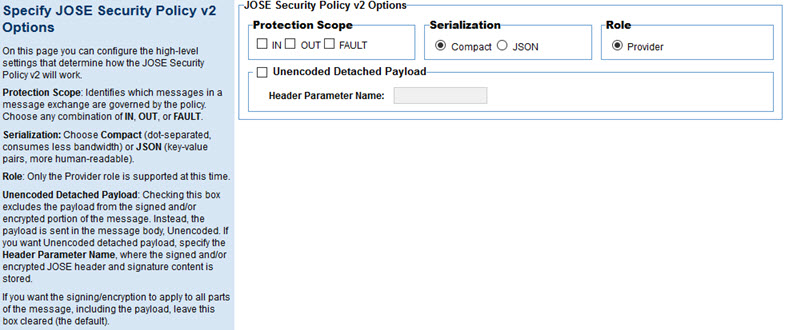
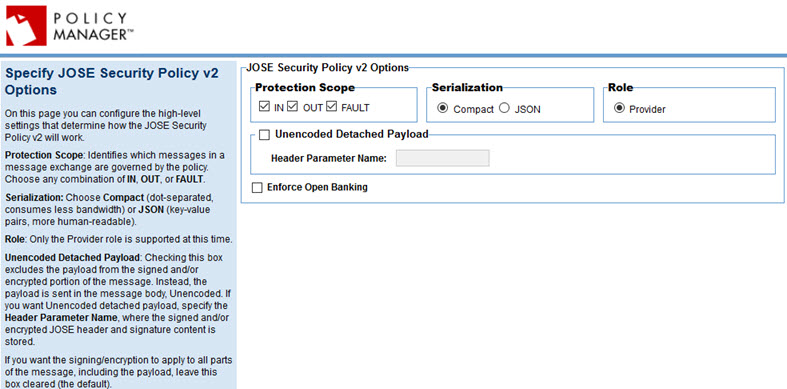
ATMO-24135 JOSE Policy v2 changes for 8.4.18

Changed region(s): [[0.0, 0.0, 1.0, 1.0]]

diff --git a/ag/policies/policy_op_jose_security_v2.htm b/ag/policies/policy_op_jose_security_v2.htm
@@ -132,6 +132,10 @@ nav-title: JOSE Security Policy v2
 <dt>Unencoded Detached Payload</dt>
 <dd>Check this box if you want to exclude the payload from the signed and/or encrypted portion of the message. Instead, the payload is sent in the message body, unencoded. You'll also need to specify the <strong>Header Parameter Name</strong>&#8212;the name of the header where the signed and/or encrypted JOSE header and signature content is stored.</dd>
 <dd> If you want the signing/encryption to apply to all parts of the message, including the payload, leave this box cleared (the default).</dd>
+
+
+<dt>Enforce Open Banking (8.4.18 and later)</dt>
+<dd>Check this box if you want this policy to enforce the additional requirements of the Open Banking specification (<a href="https://openbanking.atlassian.net/wiki/spaces/DZ/pages/16320694/Open+Data+API+Specifications" title="Link to Open Banking specification" target="_blank">https://openbanking.atlassian.net/wiki/spaces/DZ/pages/16320694/Open+Data+API+Specifications</a>). If you choose this option, the policy enforces that the message content type must be <strong>application/json</strong>, as per the Open Banking specification..</dd>
 </dl>
 <p>Click <strong>Next</strong> to go to the next page, which is determined by your choice in the <strong>Protection Scope</strong> field:</p>
 <ul>
@@ -164,6 +168,13 @@ nav-title: JOSE Security Policy v2
 	<li><strong>User Defined</strong>: If you choose User Defined, specify a custom category name; for example, a platform identity.</li>
 </ul>
 </dd>
+
+
+<dt>Private Headers (8.4.18 and later)</dt>
+<dd>A private header is any header other than the registered headers defined by the specification; see <a href="https://tools.ietf.org/html/rfc7515#section-4.3">Private Header Parameter Names</a> section of RFC 7515.</dd>
+<dd>You can specify one or more private headers; check the box and specify the header name and value. You can also add or delete existing private headers as needed.</dd>
+
+
 </dl>
 
 <h5 id="jwks_url_app_oauth_profile">Referencing the JWKS URL from the App OAuth Profile</h5>
@@ -229,7 +240,7 @@ nav-title: JOSE Security Policy v2
 </dl>
 
 <h5 id="jose_unenc_options_out_private_headers">Private Headers</h5>
-<p>A private header is any header other than the registered headers defined by the specification; see <a href="https://tools.ietf.org/html/rfc7515#section-4.3">Private Header Parameter Names</a> section of RFC 7515.</p>
+<p>A private header is any header other than the registered headers defined by the specification; see the <a href="https://tools.ietf.org/html/rfc7515#section-4.3">Private Header Parameter Names</a> section of RFC 7515.</p>
 <p>You can specify one or more private headers; check the box and specify the header name and value. You can also add or delete existing private headers as needed.</p>
 
 
